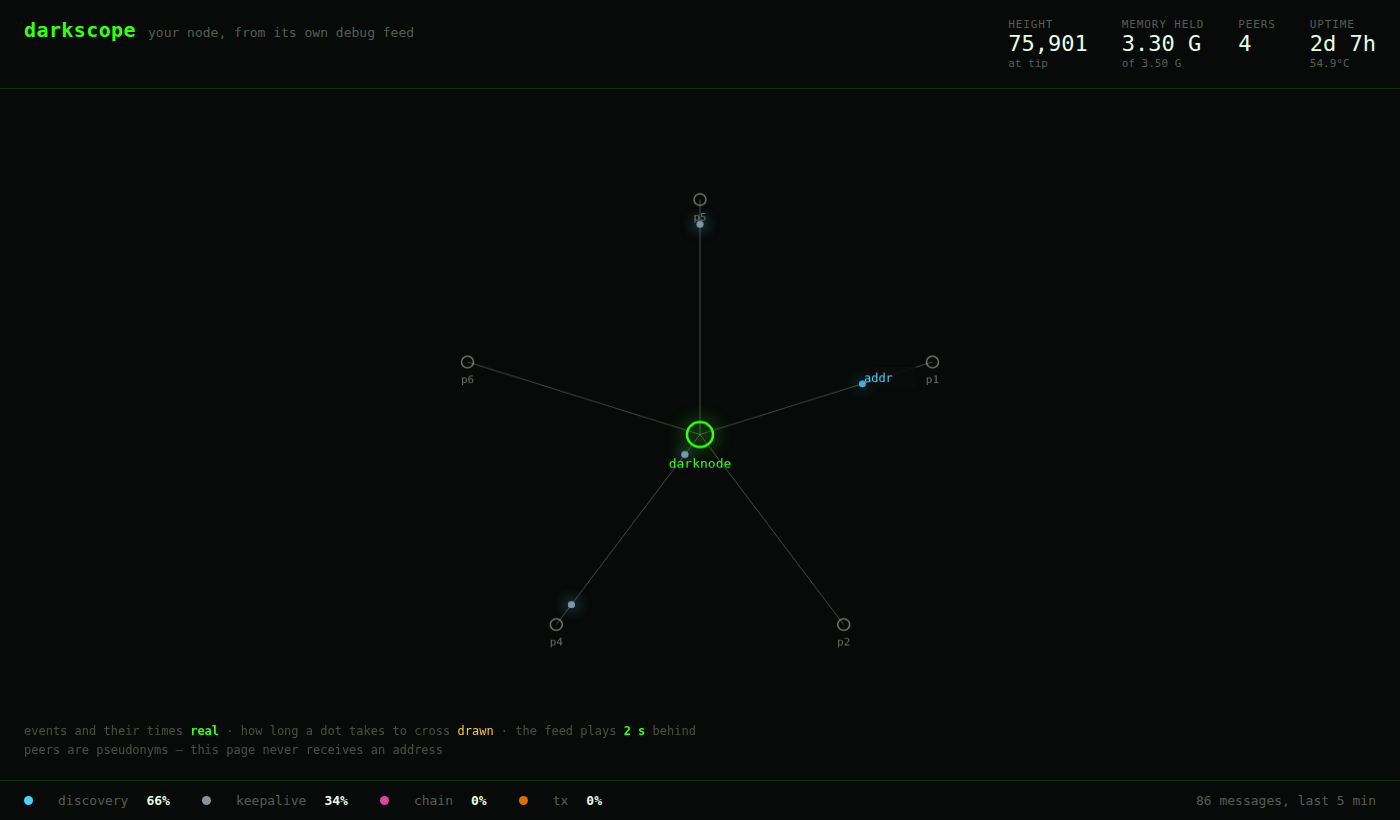
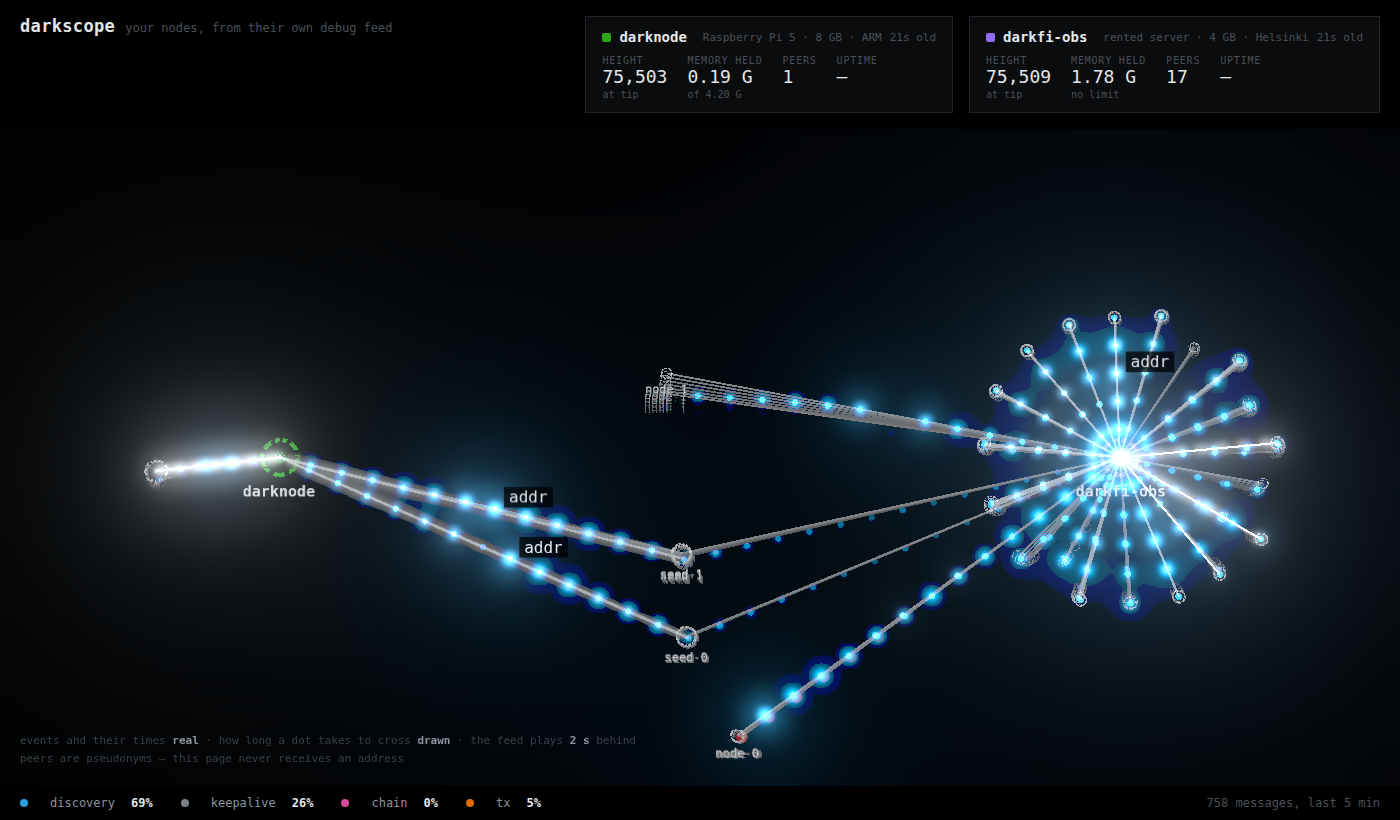
README: describe the current layout
The claim of having no dependencies stopped being true when the panel became a
three.js graph. Cloning and running still needs no npm because dist/ is
committed; changing the graph does.

diff --git a/README.md b/README.md
@@ -8,8 +8,9 @@ git clone https://github.com/reymom/darkscope && cd darkscope && ./install.sh
 # then open http://localhost:8080
 ```
 
-That is the whole thing. No account, no dashboard service, no npm, no build step. A shell
-script, two Python files that import nothing you do not already have, and one HTML page.
+That is the whole thing. No account and no dashboard service — it runs on your machine and
+the data stays there. The panel is committed built, so cloning and running needs no npm; you
+only need it if you want to change the graph.
 
 ![the panel](docs/panel.png)
 
@@ -58,18 +59,29 @@ anyone else's code.
 
 ## Layout
 
+Three parts that do not know about each other:
+
 ```
-collector/    what runs next to the node
+collector (on each node)  →  server (receives)  →  panel (a pure receiver)
+```
+
+The panel talks to no node and holds no address. It asks the server what machines exist and
+draws whatever it is given, which is why it works for one machine or for six.
+
+```
+collector/    what runs next to each node
   dnet-record.sh       subscribes to darkfid's dnet feed → dnet-YYYY-MM-DD.jsonl
   darknode-export.sh   one machine snapshot a minute → snapshots-YYYY-MM-DD.jsonl
   darkfid-blocks.sh    one line per applied block: height, calls, gas, contracts
   darknode-digest.py   daily rollup
-  node-pulse.py        OPTIONAL — pushes a summary to a site you run
+  node-pulse.py        pushes pseudonyms and counts to your server — never an address
   darkfid-memguard.*   OPTIONAL — a watchdog for when you are still finding your limits
-panel/        what you look at
-  serve.py      stdlib HTTP server: reads the files above, serves pseudonyms
-  index.html
-  app.js        canvas, no dependencies
+server/       receives from every machine, holds five minutes, serves the panel
+  server.py            stdlib only. Bearer token from collectors, read endpoints out
+  machines.example.json
+panel/        the graph
+  src/                 three.js + 3d-force-graph. The same one at reymom.xyz/darknode
+  dist/                committed, so cloning needs no npm
 bench/        does your node fit on this box?
   bench.sh      one arm: same database, one environment, what it cost
   snapshot.sh   the restore point every arm starts from
@@ -106,10 +118,20 @@ component that sends anything anywhere:
 # then set NODE_INGEST_TOKEN and INGEST_URL in /etc/darknode-export.env
 ```
 
-**Without installing anything**, pointed at logs you already have:
+**Your machines**, in `server/machines.json`. The order decides the colours, and a machine
+keeps its colour when you add another:
+
+```json
+[
+  {"id": "my-pi",  "label": "my-pi",  "desc": "Raspberry Pi 5 · 8 GB · ARM"},
+  {"id": "my-vps", "label": "my-vps", "desc": "rented server · 4 GB"}
+]
+```
+
+**Changing the graph** needs the toolchain, and only then:
 
 ```bash
-DNET_DIR=/var/log/darknode PORT=8080 ./panel/serve.py
+cd panel && npm install && npm run build
 ```
 
 ## Configuration
@@ -123,13 +145,17 @@ Everything is environment variables, in `/etc/darknode-export.env` for the colle
 | `DARKFID_MGMT_RPC_PORT` | where `dnet` is, default `18346` |
 | `HISTORY_DIR` | where everything is written, default `/var/log/darknode` |
 | `HISTORY_MAX_DAYS` | how long to keep it |
-| `PORT`, `NODE_NAME` | the panel |
+| `PORT` | the server |
+| `DARKSCOPE_TOKEN` | what collectors must present to push |
+| `DARKSCOPE_READ_TOKEN` | optional, if reading should not be open either |
+| `PEER_NODE_MAP` | JSON: which peer addresses are your own machines, so they are drawn as machines rather than as an anonymous peer on each side. The address never leaves the file |
 | `INGEST_URL`, `NODE_INGEST_TOKEN` | only if you are publishing |
 
 ## Requirements
 
-A Linux machine running `darkfid` under systemd, with `curl`, `jq` and `python3`. It was
-built on a Raspberry Pi 5 and a 4 GB x86 VPS, and it assumes nothing else.
+A Linux machine running `darkfid` under systemd, with `curl`, `jq` and `python3`. The
+collector is standard library only. Node is needed only to rebuild the panel. It was built on
+a Raspberry Pi 5 and a 4 GB x86 VPS, and it assumes nothing else.
 
 ## Licence
 
